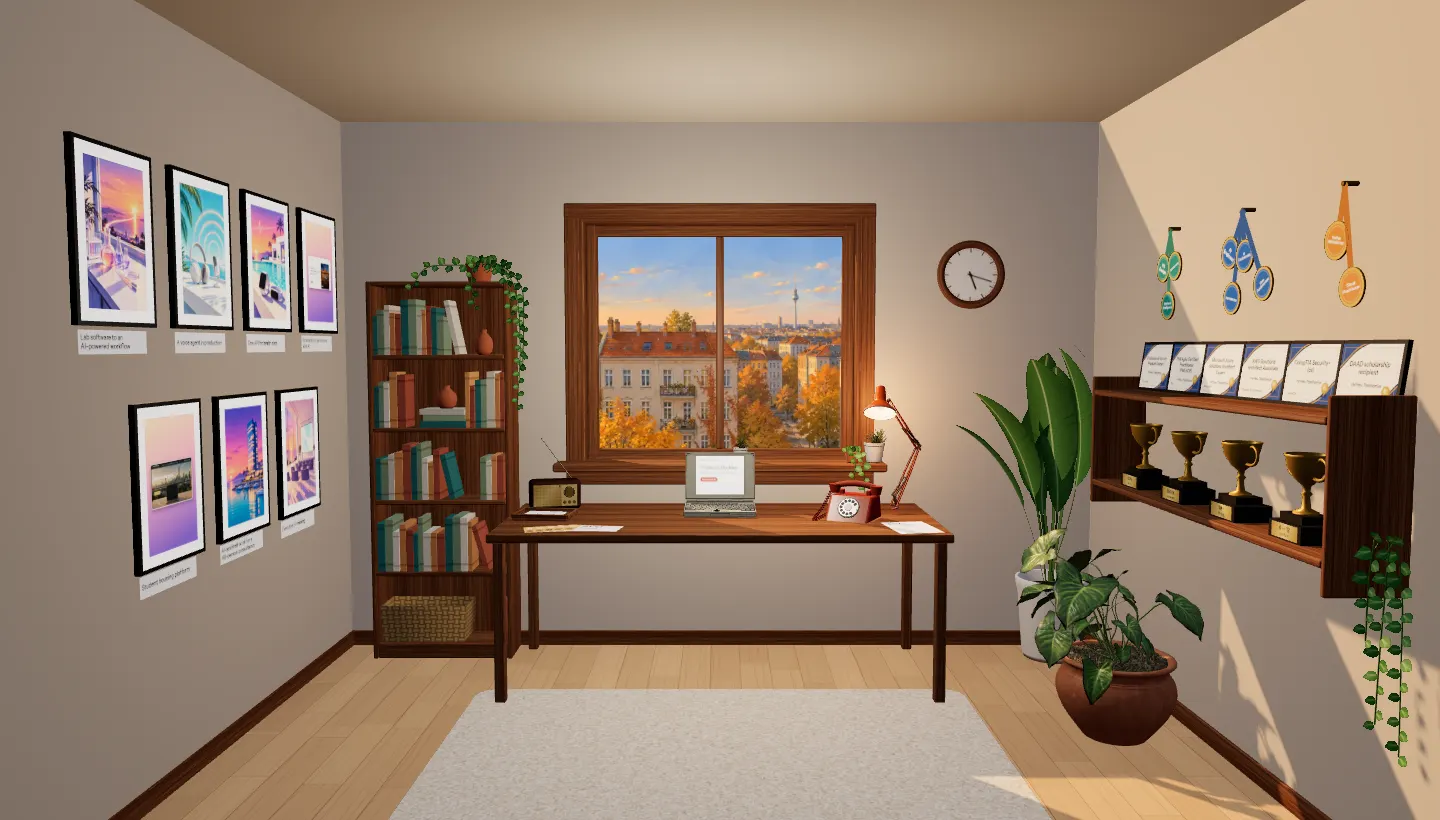
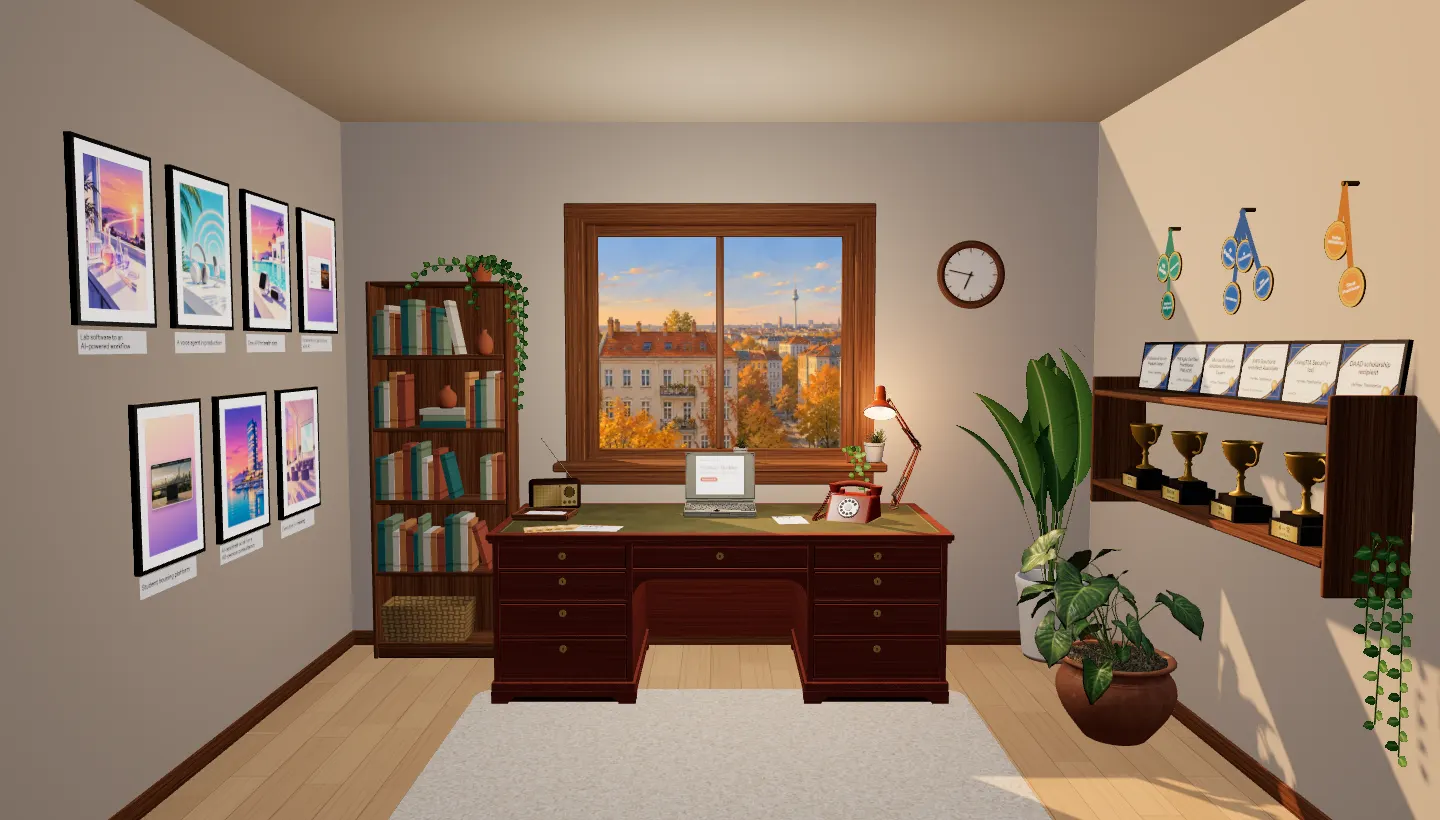
Replace the desk with a mahogany pedestal desk
The table desk under the window becomes a Georgian-style pedestal desk,
built in code at the same top size and height, so every object on it
keeps its place.

- Two pedestals, each with four graduated drawers, the lowest the
  tallest. A shallow centre drawer sits over an arched kneehole. Each
  pedestal stands on a plinth with bracket feet and cut-out aprons.
- The wood is a canvas mahogany texture, warmer and redder than the
  walnut. woodTexture takes the colours and the seed as a parameter.
- The top carries an olive leather canvas with faint mottling and a thin
  gold tooled line, inset 4.5 cm from the rim.
- Each drawer carries a round brass escutcheon with a keyhole.
- The wood renders as one merged mesh, the leather as one plane and the
  escutcheons as one instanced mesh. At rest the room draws 184 calls,
  down from 186.

The CV printout moves 4 cm to the left (PRINT.x 0.93 to 0.89). At 0.93
the telephone's coiled cord lay over its right edge. It now clears the
phone by 2.8 cm and the laptop by 7.4 cm.

lookAtDesk frames the right pedestal and the leather for a close
screenshot. printPoint takes a point on the print. The still images
show the new desk. CREDITS.txt names the desk and its canvases.

Changed region(s): [[0.3438, 0.6098, 0.6562, 0.8841], [0.8438, 0.6402, 0.875, 0.6707]]

diff --git a/assets/room/room.js b/assets/room/room.js
@@ -63,11 +63,15 @@ const LINING = 0.025, CASING = 0.075, SILL_OUT = 0.16, FRAME_Z = -0.12, F = 0.06
 // The sill top sits above the opening's bottom face, so the two never share a plane.
 const SILL_UP = 0.006;
 const DESK = { x: 0.55, z: 0.47, w: 2.1, d: 0.9, top: 0.78 };
+// The desk's two pedestals, each w wide with four drawers sized by shares from the bottom up. The stiles, the rails
+// and the gap round each drawer front, the plinth's top and the feet's height are in metres.
+const PEDESTAL = { w: 0.63, shares: [137, 110, 97, 75], stile: 0.028, rail: 0.014, gap: 0.004, plinth: 0.1, feet: 0.058 };
+const LEATHER_INSET = 0.045;   // the leather top's inset from the rim
 // The passes lie in a row along the front of the desk with small gaps: a stub, a perforation and a body.
 const PASS = { w: 0.264, stub: 0.06, gap: 0.026, band: 0.012, r: 0.01, pad: 0.012, code: 0.05, company: 0.032, lift: 0.03 };
 const LAPTOP = { x: 0.55, z: 0.37, scale: 0.55, tilt: 0.2 };   // tilt: the lid leans back by this angle in radians
 // The CV printout lies at the telephone's front-left, between the laptop and the phone and behind the spread passes.
-const PRINT = { x: 0.93, z: 0.55, w: 0.15, h: 0.212, turn: 0.12 };
+const PRINT = { x: 0.89, z: 0.55, w: 0.15, h: 0.212, turn: 0.12 };
 const TRAY = { x: -0.31, z: 0.47, w: 0.27, d: 0.2, turn: -0.1 };
 const CARD = { w: 0.17, h: 0.11 };   // a business card: 85 x 55 mm, at twice the size
 const PHONE = { x: 1.2, z: 0.52, turn: -0.45 };
@@ -806,18 +810,22 @@ function drawNotes(notes, index, number = index, blank = false) {
 
 // ── Procedural textures and shapes ──
 
-function woodTexture() {
+// The colours of a wood: its base, its dark and light bands and its grain lines, and the seed of its pattern. The room
+// is walnut; the desk is a warmer, redder mahogany.
+const WALNUT = { base: '#93603a', dark: '120, 72, 38', light: '178, 122, 76', grain: '64, 34, 16', seed: 11 };
+const MAHOGANY = { base: '#a0503a', dark: '132, 60, 40', light: '172, 88, 60', grain: '108, 44, 28', seed: 13 };
+function woodTexture({ base, dark, light, grain, seed } = WALNUT) {
   const c = document.createElement('canvas');
   c.width = 1024;
   c.height = 512;
   const g = c.getContext('2d');
-  const rand = random(11);
-  g.fillStyle = '#93603a';
+  const rand = random(seed);
+  g.fillStyle = base;
   g.fillRect(0, 0, c.width, c.height);
   // Broad colour bands, then fine grain lines; whole sine cycles keep the texture seamless along x.
   for (let i = 0; i < 26; i++) {
     const y0 = rand() * c.height, amp = 4 + rand() * 14, cycles = 1 + Math.floor(rand() * 3), phase = rand() * 6.3, w = 10 + rand() * 40;
-    g.strokeStyle = rand() < 0.5 ? `rgba(120, 72, 38, ${0.25 + rand() * 0.3})` : `rgba(178, 122, 76, ${0.2 + rand() * 0.3})`;
+    g.strokeStyle = rand() < 0.5 ? `rgba(${dark}, ${0.25 + rand() * 0.3})` : `rgba(${light}, ${0.2 + rand() * 0.3})`;
     g.lineWidth = w;
     for (const dy of [-c.height, 0, c.height]) {
       g.beginPath();
@@ -827,7 +835,7 @@ function woodTexture() {
   }
   for (let i = 0; i < 220; i++) {
     const y0 = rand() * c.height, amp = 2 + rand() * 10, cycles = 1 + Math.floor(rand() * 3), phase = rand() * 6.3;
-    g.strokeStyle = `rgba(64, 34, 16, ${0.15 + rand() * 0.4})`;
+    g.strokeStyle = `rgba(${grain}, ${0.15 + rand() * 0.4})`;
     g.lineWidth = 0.8 + rand() * 2.4;
     g.beginPath();
     for (let x = 0; x <= c.width; x += 16) g.lineTo(x, y0 + Math.sin((x / c.width) * cycles * Math.PI * 2 + phase) * amp);
@@ -894,6 +902,36 @@ function plankTexture() {
     g.fillStyle = 'rgba(96, 62, 34, 0.55)';
     g.fillRect(b * w, 0, 2, S);   // the gap between two boards
   }
+  return c;
+}
+
+// The desk's leather, w x h metres: olive with faint mottling, a darker worn edge and a thin gold tooled line near the
+// edge.
+function leatherTexture(w, h) {
+  const c = document.createElement('canvas');
+  c.width = 2048;
+  c.height = Math.round((2048 * h) / w);
+  const g = c.getContext('2d'), rand = random(43), m = c.width / w;   // m: canvas px per metre
+  g.fillStyle = '#70683e';
+  g.fillRect(0, 0, c.width, c.height);
+  for (let i = 0; i < 500; i++) {
+    const x = rand() * c.width, y = rand() * c.height, r = 20 + rand() * 120;
+    const spot = g.createRadialGradient(x, y, 0, x, y, r);
+    spot.addColorStop(0, rand() < 0.5 ? `rgba(40, 40, 18, ${0.03 + rand() * 0.05})` : `rgba(160, 150, 96, ${0.03 + rand() * 0.04})`);
+    spot.addColorStop(1, 'rgba(0, 0, 0, 0)');
+    g.fillStyle = spot;
+    g.fillRect(x - r, y - r, 2 * r, 2 * r);
+  }
+  for (let i = 0; i < 30000; i++) {
+    g.fillStyle = rand() < 0.5 ? 'rgba(30, 30, 10, 0.08)' : 'rgba(200, 190, 140, 0.06)';
+    g.fillRect(rand() * c.width, rand() * c.height, 1.5, 1.5);
+  }
+  g.strokeStyle = 'rgba(30, 28, 12, 0.35)';
+  g.lineWidth = 0.012 * m;
+  g.strokeRect(0, 0, c.width, c.height);
+  g.strokeStyle = '#c9a24e';
+  g.lineWidth = 0.0025 * m;
+  g.strokeRect(0.014 * m, 0.014 * m, c.width - 0.028 * m, c.height - 0.028 * m);
   return c;
 }
 
@@ -1255,14 +1293,104 @@ export async function start(section) {
     ];
     const SASH_OPEN = { x0: IN.x0 + F, x1: IN.x1 - F, y0: WIN.y0 + F, y1: IN.y1 - F };
 
-    // The desk under the window. A click on any part of it counts as the desk.
+    const texture = (source) => {
+      const map = new THREE.CanvasTexture(source);
+      map.colorSpace = THREE.SRGBColorSpace;
+      map.anisotropy = anisotropy;
+      return map;
+    };
+
+    // The desk under the window: a mahogany pedestal desk with a leather top. Each pedestal has four drawers and
+    // stands on a plinth with bracket feet; a shallow centre drawer sits over an arched kneehole. The wood renders as
+    // one mesh, the leather and the brass escutcheons as one each. A click on any part of it counts as the desk.
     const DX = { x0: DESK.x - DESK.w / 2, x1: DESK.x + DESK.w / 2, z0: DESK.z - DESK.d / 2, z1: DESK.z + DESK.d / 2 };
-    const deskParts = [woodBox(DX.x0, DX.x1, DESK.top - 0.04, DESK.top, DX.z0, DX.z1)];
-    for (const sx of [-1, 1]) for (const sz of [-1, 1]) {
-      const x = DESK.x + sx * (DESK.w / 2 - 0.05), z = DESK.z + sz * (DESK.d / 2 - 0.05);
-      deskParts.push(woodBox(x - 0.025, x + 0.025, 0, DESK.top - 0.04, z - 0.025, z + 0.025));
+    function buildDesk() {
+      const { w: PW, shares, stile, rail, gap, plinth, feet } = PEDESTAL;
+      const front = DX.z1 - 0.025, back = DX.z0 + 0.01, under = 0.738;   // the carcase under the top's overhang
+      const mahoganyMap = texture(woodTexture(MAHOGANY));
+      mahoganyMap.wrapS = mahoganyMap.wrapT = THREE.RepeatWrapping;
+      const deskWood = new THREE.Group();
+      // A board of the desk. shade darkens it: the panel seen through the gap round each drawer front is dark.
+      const board = (x0, x1, y0, y1, z0, z1, round = 0.006, shade = 1) => { woodBox(x0, x1, y0, y1, z0, z1, deskWood, round).userData.shade = shade; };
+      // A shape cut from a board of the given depth; its grain runs along x or z at the boards' scale.
+      function cutBoard(shape, depth, x, z, alongZ = false) {
+        const geometry = new THREE.ExtrudeGeometry(shape, { depth, bevelEnabled: false });
+        if (alongZ) geometry.rotateY(-Math.PI / 2);
+        const mesh = new THREE.Mesh(geometry);
+        mesh.position.set(x, 0, z);
+        mesh.userData.metres = true;
+        deskWood.add(mesh);
+      }
+      // The top: a slab with a rounded edge over a thin moulding.
+      board(DX.x0, DX.x1, 0.752, DESK.top, DX.z0, DX.z1, 0.008);
+      board(DX.x0 + 0.01, DX.x1 - 0.01, under, 0.7525, DX.z0, DX.z1 - 0.01, 0.005);
+      // The drawer openings of a pedestal, [y0, y1] from the bottom, with a rail between two.
+      const tall = under - plinth - 5 * rail, sum = shares.reduce((a, b) => a + b);
+      const rows = [];
+      for (let i = 0, y = plinth + rail; i < shares.length; i++) {
+        const h = (tall * shares[i]) / sum;
+        rows.push([y, y + h]);
+        y += h + rail;
+      }
+      // A drawer front in its opening, a little proud of the frame, with its escutcheon high on the front.
+      const keys = [];
+      function drawer(x0, x1, [y0, y1]) {
+        board(x0 + gap, x1 - gap, y0 + gap, y1 - gap, front - 0.006, front + 0.004, 0.004);
+        keys.push([(x0 + x1) / 2, Math.max((y0 + y1) / 2, y1 - 0.045)]);
+      }
+      // The bracket base of one side, length l: a foot at each end, the apron between them cut away in an ogee.
+      const bracket = (l, f = 0.075, c = 0.036) => new THREE.Shape().moveTo(0, 0).lineTo(f, 0)
+        .bezierCurveTo(f + 0.006, c * 0.8, f + 0.014, c * 0.3, f + 0.03, c).lineTo(l - f - 0.03, c)
+        .bezierCurveTo(l - f - 0.014, c * 0.3, l - f - 0.006, c * 0.8, l - f, 0)
+        .lineTo(l, 0).lineTo(l, feet).lineTo(0, feet).closePath();
+      for (const x0 of [DX.x0 + 0.025, DX.x1 - 0.025 - PW]) {
+        const x1 = x0 + PW, sx0 = x0 + stile, sx1 = x1 - stile;
+        board(x0, x1, plinth, under, front - 0.02, front - 0.01, 0.002, 0.35);
+        for (const x of [x0, x1 - 0.02]) board(x, x + 0.02, plinth, under, back, front - 0.01);
+        for (const x of [x0, sx1]) board(x, x + stile, plinth, under, front - 0.01, front, 0.003);
+        board(sx0, sx1, plinth, plinth + rail, front - 0.01, front, 0.003);
+        for (const [, y1] of rows) board(sx0, sx1, y1, y1 + rail, front - 0.01, front, 0.003);
+        for (const row of rows) drawer(sx0, sx1, row);
+        // The plinth, and under it the bracket feet round a dark core that shows through the cut-outs.
+        const px0 = x0 - 0.012, px1 = x1 + 0.012, pz1 = front + 0.012;
+        board(px0, px1, feet, plinth, back, pz1, 0.008);
+        board(x0 + 0.02, x1 - 0.02, 0.004, feet, back, front - 0.01, 0.002, 0.25);
+        cutBoard(bracket(px1 - px0), 0.018, px0, pz1 - 0.018);
+        cutBoard(bracket(pz1 - back), 0.018, px0 + 0.018, back, true);
+        cutBoard(bracket(pz1 - back), 0.018, px1, back, true);
+      }
+      // The centre drawer between the pedestals, and under it the apron with its arch: a flat top and round corners.
+      const kx0 = DX.x0 + 0.025 + PW, kx1 = DX.x1 - 0.025 - PW, frieze = rows[shares.length - 2][1], r = 0.1;
+      board(kx0, kx1, frieze, under, front - 0.02, front - 0.01, 0.002, 0.35);
+      for (const y of [frieze, under - rail]) board(kx0, kx1, y, y + rail, front - 0.01, front, 0.003);
+      drawer(kx0, kx1, rows[shares.length - 1]);
+      const w = kx1 - kx0, low = frieze - 0.035 - r;
+      cutBoard(new THREE.Shape().moveTo(0, frieze).lineTo(w, frieze).lineTo(w, low)
+        .absarc(w - r, low, r, 0, Math.PI / 2, false).lineTo(r, low + r)
+        .absarc(r, low, r, Math.PI / 2, Math.PI, false).closePath(), 0.018, kx0, front - 0.018);
+      board(kx0, kx1, feet, frieze, back, back + 0.015, 0.003, 0.7);   // the kneehole's back
+      deskWood.updateMatrixWorld(true);
+      const deskMesh = new THREE.Mesh(mergeGeometries(deskWood.children.map((m) => {
+        const geometry = m.geometry.applyMatrix4(m.matrixWorld), p = geometry.attributes.position;
+        if (m.userData.metres) for (let i = 0; i < p.count; i++) geometry.attributes.uv.setXY(i, (p.getX(i) + p.getZ(i)) / 0.9, p.getY(i) / 0.16);
+        return geometry.setAttribute('color', new THREE.Float32BufferAttribute(new Array(p.count * 3).fill(m.userData.shade ?? 1), 3));
+      })), new THREE.MeshStandardMaterial({ map: mahoganyMap, vertexColors: true, roughness: 0.5 }));
+      // The leather lies inside the rim, a hair above the wood and below everything on the desk.
+      const leatherSize = [DESK.w - 2 * LEATHER_INSET, DESK.d - 2 * LEATHER_INSET];
+      const leather = new THREE.Mesh(new THREE.PlaneGeometry(...leatherSize).rotateX(-Math.PI / 2), new THREE.MeshStandardMaterial({ map: texture(leatherTexture(...leatherSize)), roughness: 0.7 }));
+      leather.position.set(DESK.x, DESK.top + 0.0004, DESK.z);
+      // A brass escutcheon on each drawer: a round plate with a dark keyhole.
+      const plate = new THREE.CylinderGeometry(0.017, 0.017, 0.002, 24).rotateX(Math.PI / 2);
+      const keyhole = new THREE.ShapeGeometry(new THREE.Shape().moveTo(-0.0024, -0.0065).lineTo(0.0024, -0.0065)
+        .absarc(0, 0.0025, 0.003, -1.1, Math.PI + 1.1, false).closePath()).translate(0, 0, 0.0011);
+      for (const [geometry, shade] of [[plate, 1], [keyhole, 0.08]]) geometry.setAttribute('color', new THREE.Float32BufferAttribute(new Array(geometry.attributes.position.count * 3).fill(shade), 3));
+      const brass = new THREE.InstancedMesh(mergeGeometries([plate, keyhole]), new THREE.MeshStandardMaterial({ color: 0xe2b85e, metalness: 0.08, roughness: 0.35, vertexColors: true }), keys.length);
+      keys.forEach(([x, y], i) => brass.setMatrixAt(i, new THREE.Matrix4().makeTranslation(x, y, front + 0.005)));
+      return [deskMesh, leather, brass];
     }
+    const deskParts = buildDesk();
     for (const part of deskParts) part.userData.kind = 'desk';
+    scene.add(...deskParts);
 
     scene.traverse((o) => { if (o.isMesh) o.castShadow = o.receiveShadow = true; });
     ceiling.castShadow = false;
@@ -1296,12 +1424,6 @@ export async function start(section) {
     const education = passes.find((p) => p.id === 'education').legs[0];
     if (!education.daad || education.degrees.length < 2) throw new Error('experience.html lost the DAAD line or a degree');
 
-    const texture = (source) => {
-      const map = new THREE.CanvasTexture(source);
-      map.colorSpace = THREE.SRGBColorSpace;
-      map.anisotropy = anisotropy;
-      return map;
-    };
     // A flat face that shows a canvas. It glows a little, like the passes, so it stays readable at night.
     const faces = [];
     function faceMesh(face, { alphaTest = 0, roughness = 0.85, side = THREE.FrontSide, lit = 1 } = {}) {
@@ -3241,6 +3363,12 @@ export async function start(section) {
       },
       decorBlocks,
       clock: () => clockLog.slice(),
+      // Frames the right pedestal and the leather from in front and above for a close screenshot.
+      lookAtDesk: () => {
+        cam.target.set(1.05, 0.5, 0.6);
+        cam.eye.set(1.75, 1.2, 2.05);
+        invalidate();
+      },
       // Frames the bookshelf from in front for a close screenshot; any move of the room puts the camera back.
       lookAtBookshelf: () => {
         cam.target.set((BOOKSHELF.x0 + BOOKSHELF.x1) / 2, 1.08, 0.1);
@@ -3248,7 +3376,8 @@ export async function start(section) {
         invalidate();
       },
       screenPoint: () => screenPoint(centreOf(screen)),
-      printPoint: () => screenPoint(print.getWorldPosition(new THREE.Vector3())),
+      // A point on the CV printout: u and v run from -1 to 1 across its width and up its height; 0, 0 is its centre.
+      printPoint: (u = 0, v = 0) => screenPoint(print.localToWorld(new THREE.Vector3((u * PRINT.w) / 2, (v * PRINT.h) / 2, 0))),
       deskPoint: () => screenPoint(new THREE.Vector3(DX.x1 - 0.12, DESK.top, DX.z0 + 0.12)),
       lampPoint: () => screenPoint(lampLight.getWorldPosition(new THREE.Vector3())),
       linkPoint: (i = 0) => zonePoint(paperState.zones.links.find((z) => z.link === i)),
